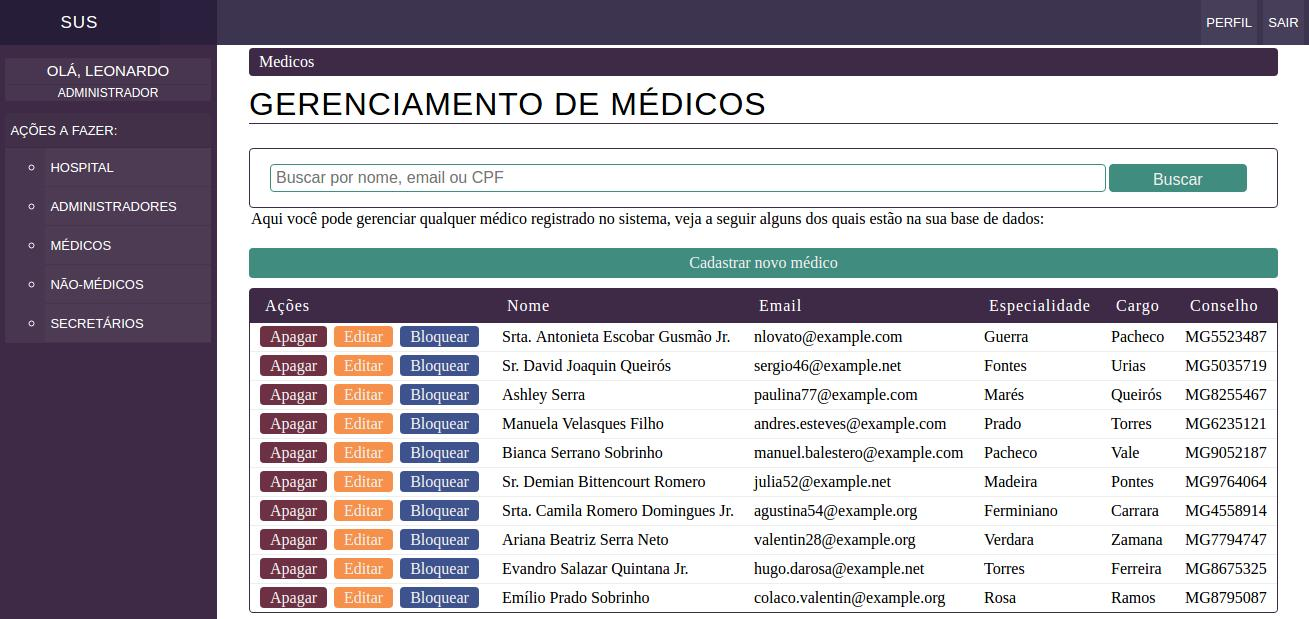
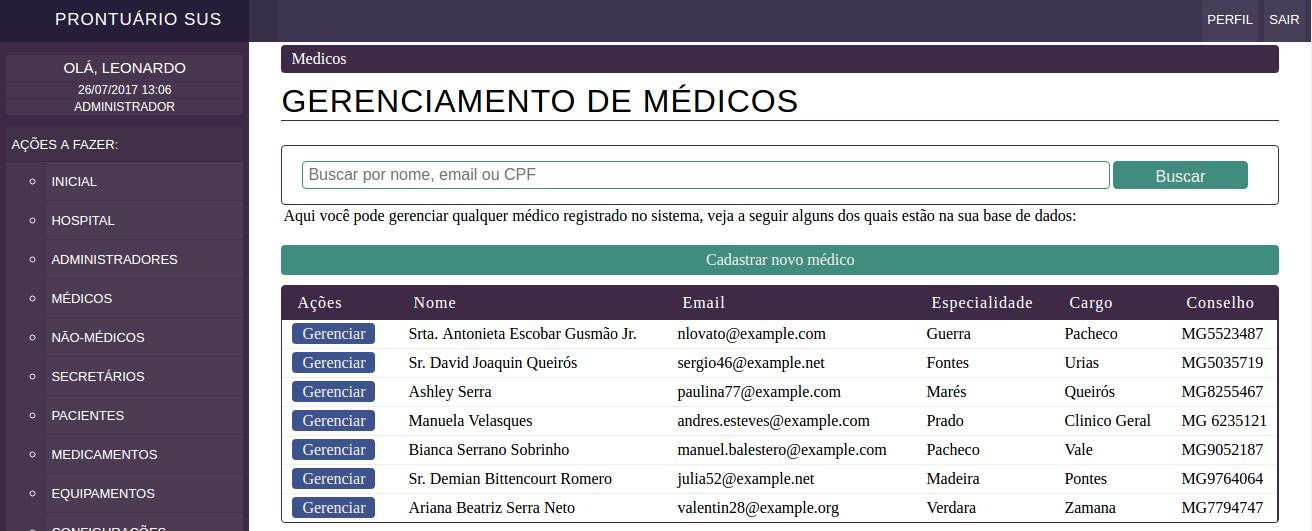
corrigindo gerencia medicos

diff --git a/planejamento/gerencia-medicos.md b/planejamento/gerencia-medicos.md
@@ -7,15 +7,20 @@ Realizar o gerenciamento dos médicos no sistema, podendo:
 * Editar qualquer médico do sistema.
 * Apagar ou bloquear qualquer médico.
 
+
 ## Implementação
 
-Em um item do menu lateral existe o atalho apra o gerenciamento de médicos, ao clicar no mesmo, é exibida uma tela com a listagem dos médicos registrados, o resultado de qualquer ação é exibido na mesma tela, como no exemplo abaixo, onde houve o bloqueio do médico 'Amarildo Santo':
+Em um item do menu lateral existe o atalho apra o gerenciamento de médicos, ao clicar no mesmo, é exibida uma tela com a listagem dos médicos registrados:
 
 ![Tela de login](./img/lista-medicos.jpeg?raw=true)
 
 
-Note também a existência das opções de edição, remoção e bloqueio/desbloqueio de um médico, além disso é possível clicar em criar um novo, onde teremos acesso a seguinte página com o formulário validando cada dado:
+Além da opção de busca por diversos atributos, podemos criar um novo médico, com o seguinte formulário:
 
 ![Painel inicial](./img/cadastro-medico.jpeg?raw=true)
 
-[Voltar](../README.md)
+Por fim, possuímos um botão 'gerenciar', onde é exibido todos os dados do médico, além das opções de gerenciamento, como remoção, edição, bloqueio e impressão:
+
+![Tela de login](./img/gerencia-medico.jpeg?raw=true)
+
+[Voltar](../README.md) 
